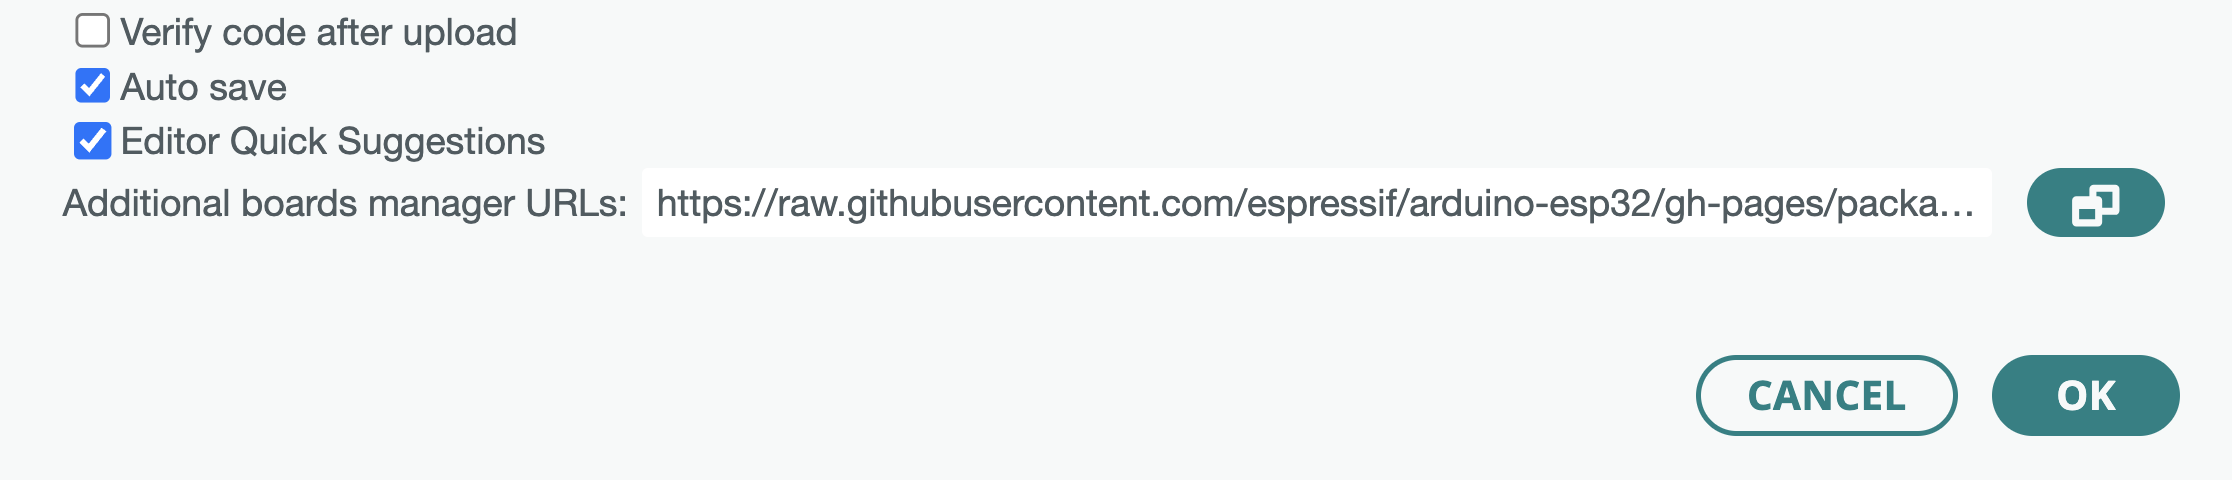
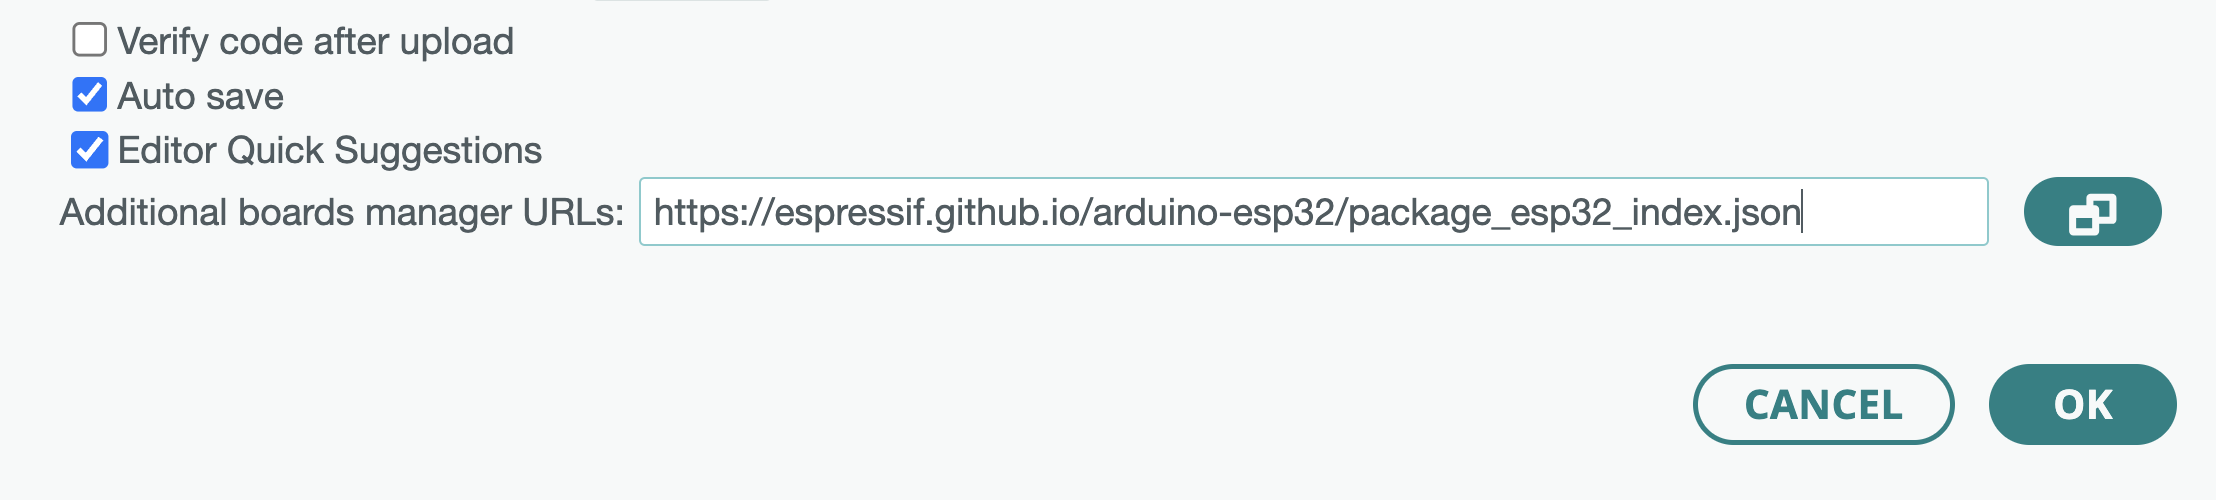
README does board setup with existing Heltec board now

diff --git a/README.md b/README.md
@@ -137,26 +137,16 @@ This library is unlikely to work as is with any other devices, whether made by H
 
 <hr>
 
-## Setting up - Board Definitions
+## Setting up
 
-Normally, the starting point for making software for a piece of hardware is selecting the board from the "Arduino board manager". If your board isn't an original AVR Arduino, such as any ESP32-based board, you might need to add a "Board Manager URL" in the Arduino IDE. Espressif maintains a long list of ESP32-based boards with their board definition files.
-
-### However ...
-
-Heltec publishes board definitions, both on their own URL which is in some of their documentation and in the (identical) definitions for their products as spread by Espressif. However, these do not let you select a partition table. That's right: if you use their definitions, you **cannot** change partition tables. Definitions for some of their other products do allow for selecting different partition tables, but then they offer a variety of tables for the wrong-size flash chip and leave out some of the right ones. But for these two boards the option is simply just gone from the *"Tools"* menu. My current guess is they didn't plan to do this: somebody just fat-fingered a copy-paste in the `boards.txt` file. But never mind why, let's fix it.
-
-&nbsp;
-
-### Installing the board; the procedure
-
-#### 1. Install this library
+### 1. Install this library
 
 Use the library manager to install this library. Find it by entering "heltec_esp32" in the library manager search box.
 
-#### 2. Add ESP32 URL to settings
+### 2. Add ESP32 URL to settings
 
 ```
-https://raw.githubusercontent.com/espressif/arduino-esp32/gh-pages/package_esp32_index.json
+https://espressif.github.io/arduino-esp32/package_esp32_index.json
 ```
 
 ![](images/board_manager_url.png)
@@ -165,56 +155,21 @@ to the additional board manager URL to the Settings of the Arduino IDE.
 
 > *(Make sure this and any URLs that might be already there are sperated by commas. If you hit OK the IDE will then load the files needed.)*
 
-> *Also make sure you remove from that field the board manager URL that starts with ropg.github.io if you added that previously because you used a previous version of this library*
+### 3. Install ESP32
 
-#### 3. Install ESP32
+Go to board manager and install "esp32 by Espressif Systems". At the time of writing this, the latest version is 2.0.16.
 
-Go to board manager and install "esp32 by Espressif Systems". At the time of writing this, the latest version is 2.0.15. If a newer versions exists, use it, but chnage the 2.0.15 in the commands you use below.
+### 4. Select the board
 
-#### 4. Quit the Arduino IDE
-
-#### 5. Adding and changing files
-
-Now we have to copy some files from the directory where this library sits to the hardware directory that holds the board definitions. In addition, we append the contents of one file to the end of a file called boards.txt. To do this, we first have to find where this library is and where the ESP32 hardware definitions are stored.
-
-Here's the shell scripts to do this for the three major operating systems. Before executing these commands, make sure the directories we name `from` and `to` actually exist.
-
-**MacOS:**
-```
-from=~/Documents/Arduino/libraries/Heltec_ESP32_LoRa_v3/boards
-to=~/Library/Arduino15/packages/esp32/hardware/esp32/2.0.15
-cp -r $from/variants/* $to/variants/
-cat $from/boards-ht_u.txt >> $to/boards.txt
-```
-
-**Linux:**
-
-```
-from=~/Arduino/libraries/Heltec_ESP32_LoRa_v3/boards
-to=~/Library/Arduino15/packages/esp32/hardware/esp32/2.0.15
-cp -r $from/variants/* $to/variants/
-cat $from/boards-ht_u.txt >> $to/boards.txt
-```
-
-**Windows PowerShell:**
-```
-$from = "~\Documents\Arduino\libraries\Heltec_ESP32_LoRa_v3\boards"
-$to = "~\AppData\Local\Arduino15\packages\esp32\hardware\esp32\2.0.15"
-Copy-Item -Path "$from\variants\*" -Destination "$to\variants\" -Recurse -Force
-Get-Content "$from\boards-ht_u.txt" | Add-Content "$to\boards.txt"
-```
-
-#### 6. Select one of the new boards
-
-Start Arduino IDE and from the board dropdown select "Select another board and port" and enter "ht_u" in the search box. My three board definitions, whose names now start with ht_u (Heltec Unofficial) should show up.
+Start Arduino IDE and from the board dropdown select "Select another board and port" and enter "heltec" in the search box. Select the board named "Heltec WiFi LoRa 32(V3) / Wireless shell(V3)" as in the image below. Do not use any of the other boards, even if they look right.
 
 <img src="images/select_board.png" width="400">
 
-### Not using these board definitions?
+### 5. Stick or Stick Lite?
 
-`#define HELTEC_WIRELESS_STICK`
+If your board is a Wireless Stick or Wireless Stick Lite, you **must** put `#define HELTEC_WIRELESS_STICK` or `#define HELTEC_WIRELESS_STICK_LITE` respectively in your code **before** `#include <heltec_unofficial.h>` or things will not work for you. 
 
-If you use the "official" board definitions, everything will work also, except you cannot change partition table AND if you have the stick, you **must** put `#define HELTEC_WIRELESS_STICK` **before** `#include <heltec_unofficial.h>` or things will not work for you. If you have the stick lite, put `#define HELTEC_WIRELESS_STICK_LITE` before including this library to skip anything related to the display.
+> * _If you have the Stick Lite, the code needs to skip anything related to a display, in case of the Stick, the display dimensions need to be set differently and the "external" power is turned on by default, as it feeds the display._
 
 > * _Main symptom of things not working on the stick is jerky and slow serial output while you are printing to `both` (see below) as the device waits for SPI timeouts from an OLED display that doesn't have power._
 
@@ -260,7 +215,9 @@ Next to the radio examples in this library, all [RadioLib examples](https://gith
 
 &nbsp;
 
-### Convenience macros: `RADIOLIB()` and `RADIOLIB_OR_HALT()`
+### Convenience macros
+
+#### `RADIOLIB()` and `RADIOLIB_OR_HALT()`
 
 This library provides convenience macros when calling RadioLib functions. It can be used for those functions that return a status code. When your code calls
 
@@ -296,13 +253,13 @@ In other words, this saves a whole lot of typing if what you want is for RadioLi
 
 ### LoRaWAN
 
-Using these Heltec chips, you can experiment with LoRaWAN networks such as [The Things Network](https://www.thethingsnetwork.org/). If create an account there and have a gateway somewhere nearby, you can send small binary messages that will show up at the designated server on the internet. You can make an account and use their servers to see your messages appear.
+Using these Heltec chips, you can experiment with LoRaWAN networks such as [The Things Network](https://www.thethingsnetwork.org/). If you create an account there and have a gateway somewhere nearby, you can send small binary messages that will show up at the designated server on the internet. You can make an account and use their servers to see your messages appear.
 
-Because of the limited throughput (a few small messages every once in a while) LoRaWAN is really most suitable for sensors, meter readings and things like that. To use it with the Heltec boards, you'd probable want to make the device go to deep sleep between readings, so the battery would last a nice long time.
+Because of the limited throughput (a few small messages every once in a while) LoRaWAN is really most suitable for sensors, meter readings and things like that. To use it with the Heltec boards, you'd probably want to make the device go to deep sleep between readings, so the battery would last a nice long time.
 
 To speak LoRaWAN, you need to store some provisioning information such as identifiers and cryptographic keys. In addition to that, the RadioLib LoRaWAN code needs the user to hang on to some session state during long sleep to resume the same session. I wrote another library, called **[LoRaWAN_ESP32](https://github.com/ropg/LoRaWAN_ESP32)** to manage both the provisioning data and the session state in flash. Please refer to that library's README for more details.
 
-If you install LoRaWAN_ESP32, you can compile the example called [LoRaWAN_TTN](/examples/LoRaWAN_TTN/LoRaWAN_TTN.ino) that comes with this library to see it in action. (That example is nearly identical to the example that comes with LaRaWAN_ESP32, just set up to have this library provide the radio instance so that you could use the display or other features if you wanted to.)
+If you install the LoRaWAN_ESP32 library, you can compile the example called [LoRaWAN_TTN](/examples/LoRaWAN_TTN/LoRaWAN_TTN.ino) that comes with this library to see it in action. (That example is nearly identical to the example that comes with LaRaWAN_ESP32, just set up to have this library provide the radio instance.)
 
 <hr>
 
